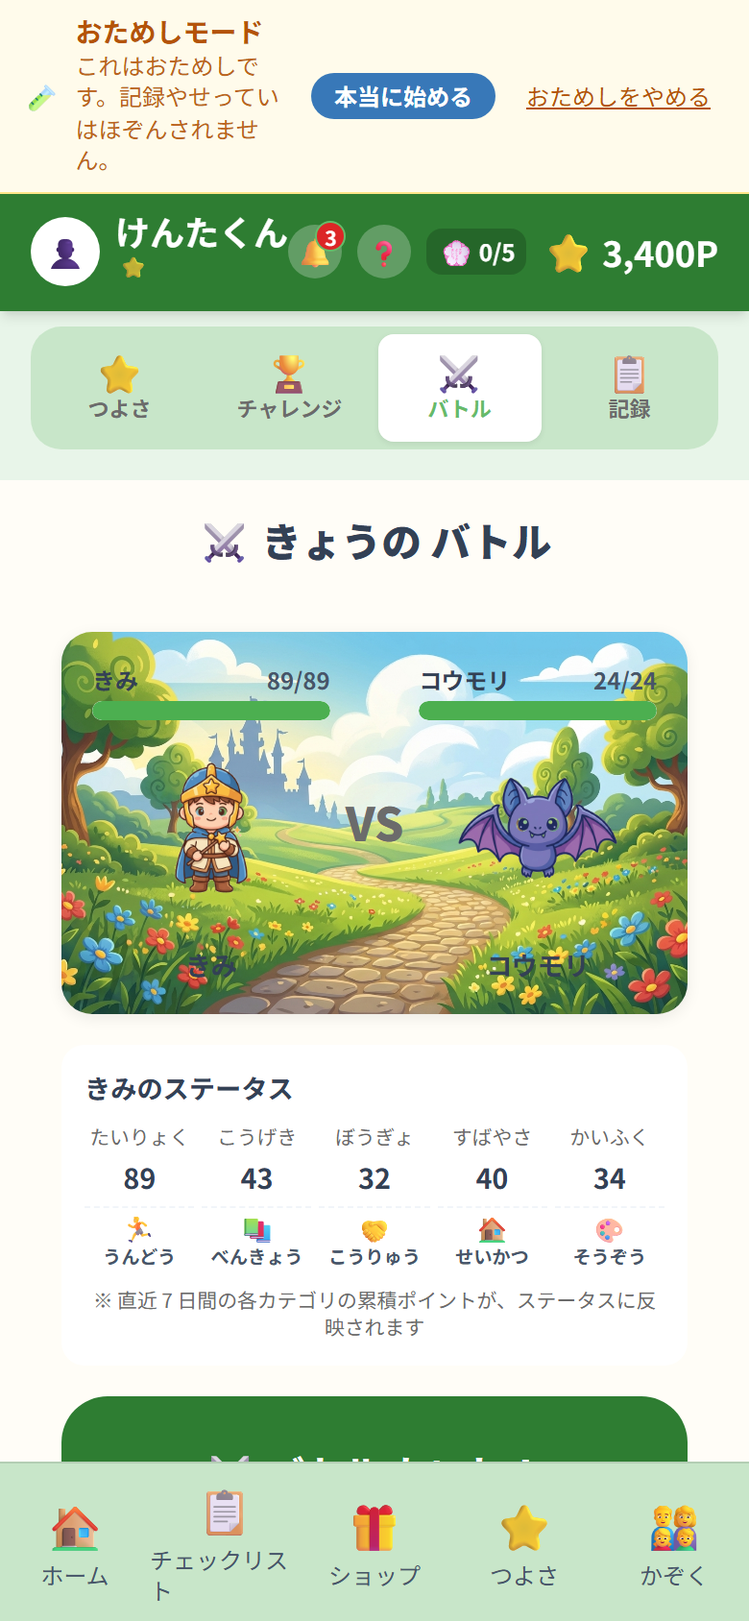
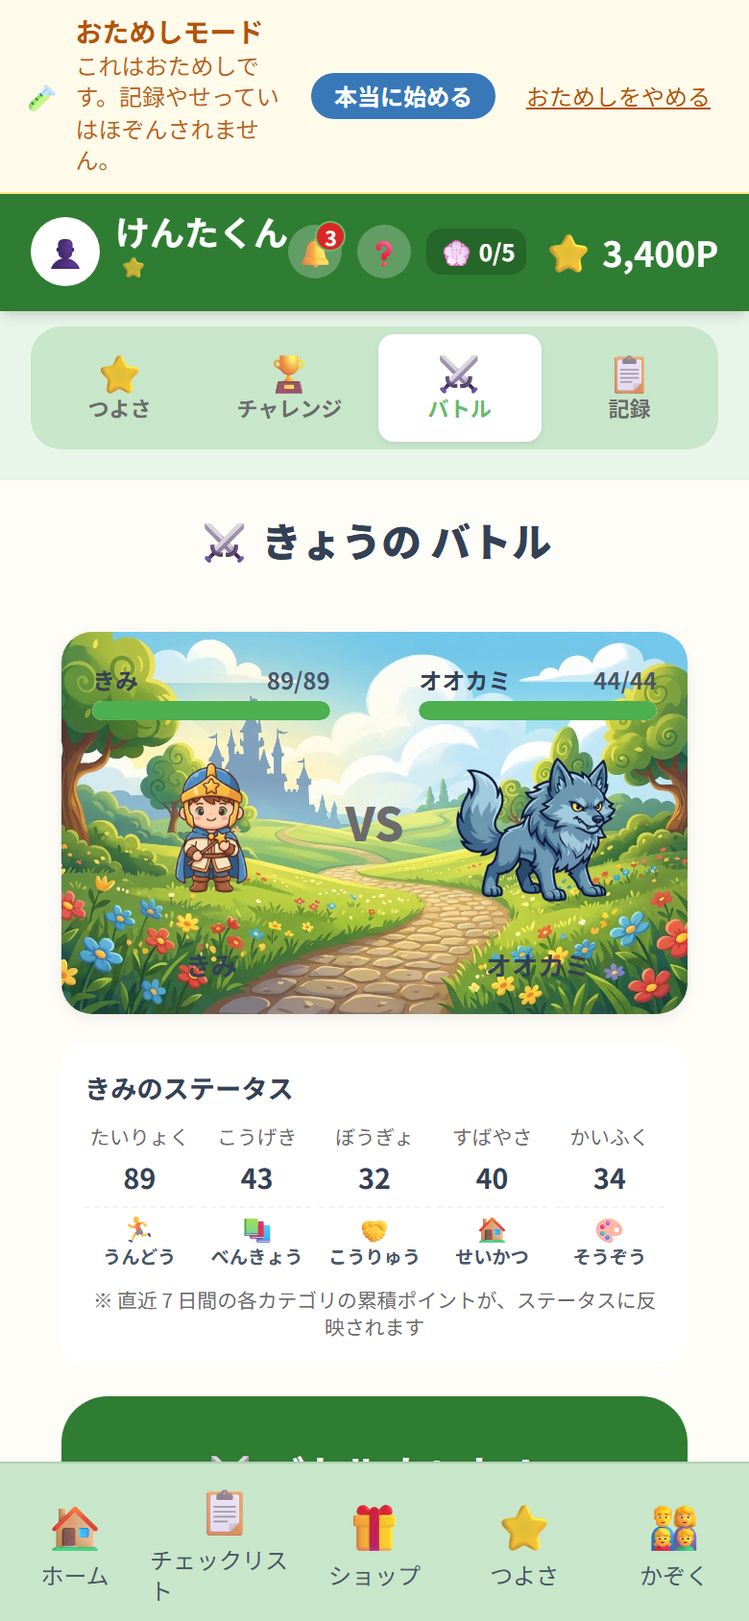
screenshots: PR #4936 (2026-09-12)

diff --git a/pr-4936/01-after-battle-elementary-mobile.dom.html b/pr-4936/01-after-battle-elementary-mobile.dom.html
@@ -550,6 +550,9 @@
   .my-\[var\(--sp-sm\)\] {
     margin-block: var(--sp-sm);
   }
+  .ms-1 {
+    margin-inline-start: var(--spacing);
+  }
   .-mt-1 {
     margin-top: calc(var(--spacing) * -1);
   }
@@ -5231,7 +5234,7 @@ h1, h2, h3, h4 {
 	}
  .svelte-1vzng6d{}</style></head>
 	<body data-sveltekit-preload-data="hover">
-		<div style="display: contents"><!--[--><!--[0--><!--[--><!--[-1--><!--]--><!----> <!--[0--><div class="sticky top-0 z-50 flex items-center gap-2 px-3 py-2 text-sm border-b bg-[var(--color-feedback-warning-bg)] border-[var(--color-feedback-warning-border)] text-[var(--color-feedback-warning-text)]" role="status" data-testid="demo-banner"><span class="shrink-0" aria-hidden="true">🧪</span> <div class="flex-1 min-w-0"><p class="font-bold leading-tight">おためしモード</p> <p class="text-xs leading-snug opacity-90">これはおためしです。記録やせっていはほぞんされません。</p></div> <a href="https://www.ganbari-quest.com/auth/signup" class="shrink-0 px-3 py-1 rounded-lg bg-[var(--color-action-primary-strong)] text-[var(--color-text-inverse)] text-xs font-bold whitespace-nowrap" data-testid="demo-banner-signup">本当に始める</a> <a href="https://www.ganbari-quest.com/" class="shrink-0 px-2 py-1 text-xs underline whitespace-nowrap" data-testid="demo-banner-exit">おためしをやめる</a></div><!--]--><!----> <!--[-1--><!--]--><!----> <!--[0--><!--[--><div data-theme="green" data-age-tier="elementary" class="min-h-dvh bg-[var(--theme-bg)]"><!--[0--><header class="sticky top-0 z-30 flex items-center justify-between px-[var(--sp-md)] py-[var(--sp-sm)] bg-[var(--color-action-primary-strong)] text-white shadow-md svelte-1i1e82e"><div class="flex items-center gap-[var(--sp-sm)] svelte-1i1e82e"><div class="avatar-wrap  svelte-1uv6grs" style="width: 36px; height: 36px;"><div class="avatar-ring svelte-1uv6grs" style="background: #ffffff; border: 2px solid rgba(255,255,255,0.5); width: 36px; height: 36px;"><!--[-1--><span class="avatar-fallback svelte-1uv6grs" style="font-size: 1rem;">👤</span><!--]--></div></div><!----> <div class="flex flex-col svelte-1i1e82e"><span class="font-bold text-lg leading-tight svelte-1i1e82e">けんたくん<!--[0--><span class="premium-star svelte-1i1e82e" title="スタンダード以上">⭐</span><!--]--></span></div></div> <div class="flex items-center gap-2 svelte-1i1e82e"><!--[0--><!--[0--><!--[0--><button type="button" class="milestone-bell svelte-1h1heob" data-testid="milestone-bell" data-pending-count="3" aria-label="新着のおしらせ 3件 を見る"><span class="milestone-bell__icon svelte-1h1heob" aria-hidden="true">🔔</span> <span class="milestone-bell__badge svelte-1h1heob" aria-hidden="true">3</span></button><!--]--><!----><!--]--><!----><!--]--> <!--[0--><button type="button" class="help-btn svelte-1i1e82e" data-testid="header-help-btn" data-tutorial="tutorial-restart" aria-label="つかいかたガイド"><span class="text-sm font-bold svelte-1i1e82e">❓</span></button><!--]--> <!--[0--><button type="button" class="stamp-mini svelte-1i1e82e" data-testid="header-stamp-btn" data-tutorial="stamp-progress" aria-label="スタンプカード 0/5 を見る"><span class="text-sm svelte-1i1e82e" aria-hidden="true">💮</span> <span class="text-xs font-bold svelte-1i1e82e">0/5</span></button><!--]--> <div class="flex items-center gap-1 font-bold svelte-1i1e82e"><span class="text-xl svelte-1i1e82e" aria-hidden="true">⭐</span> <span class="text-lg svelte-1i1e82e" data-testid="header-balance">3,400P</span></div></div></header><!----><!--]--> <main class="relative z-0 pb-20 pt-[var(--sp-sm)]"><!--[-1--><!--[0--><!--[--><nav class="character-tabs svelte-1c5gr6g" data-testid="character-tabs"><!--[--><a href="/elementary/status" data-sveltekit-noscroll="" class="character-tab svelte-1c5gr6g" data-testid="character-tab-status"><span class="character-tab__icon svelte-1c5gr6g">⭐</span> <span class="character-tab__label svelte-1c5gr6g">つよさ</span></a><a href="/elementary/challenges" data-sveltekit-noscroll="" class="character-tab svelte-1c5gr6g" data-testid="character-tab-challenges"><span class="character-tab__icon svelte-1c5gr6g">🏆</span> <span class="character-tab__label svelte-1c5gr6g">チャレンジ</span></a><a href="/elementary/battle" data-sveltekit-noscroll="" class="character-tab svelte-1c5gr6g active" aria-current="page" data-testid="character-tab-battle"><span class="character-tab__icon svelte-1c5gr6g">⚔</span> <span class="character-tab__label svelte-1c5gr6g">バトル</span></a><a href="/elementary/history" data-sveltekit-noscroll="" class="character-tab svelte-1c5gr6g" data-testid="character-tab-history"><span class="character-tab__icon svelte-1c5gr6g">📋</span> <span class="character-tab__label svelte-1c5gr6g">記録</span></a><!--]--></nav><!----> <!--[--><form method="POST" action="?/executeBattle"><div class="battle-page svelte-1vzng6d" data-testid="battle-page"><h2 class="page-title svelte-1vzng6d">⚔ きょうの バトル</h2> <!--[0--><div class="battle-scene svelte-1y13w0u" data-testid="battle-scene"><div class="battle-field svelte-1y13w0u" data-testid="battle-field"><div class="combatant player-side svelte-1y13w0u" data-testid="player-side"><div class="hp-bar svelte-1wvyiv9"><div class="hp-label svelte-1wvyiv9"><span class="hp-name svelte-1wvyiv9">きみ</span> <span class="hp-value svelte-1wvyiv9">89/89</span></div> <div class="hp-track svelte-1wvyiv9"><div class="hp-fill svelte-1wvyiv9 bar-high" style="width: 100%;"></div></div></div><!----> <div class="sprite-wrap svelte-1y13w0u"><div class="sprite svelte-1y13w0u"><img class="sprite-img svelte-1y13w0u" src="/assets/battle/characters/hero-default.png" alt="きみ"></div> <!--[-1--><!--]--></div> <div class="combatant-name svelte-1y13w0u">きみ</div></div> <div class="vs-label svelte-1y13w0u">VS</div> <div class="combatant enemy-side svelte-1y13w0u" data-testid="enemy-side"><div class="hp-bar svelte-1wvyiv9 enemy"><div class="hp-label svelte-1wvyiv9"><span class="hp-name svelte-1wvyiv9">コウモリ</span> <span class="hp-value svelte-1wvyiv9">24/24</span></div> <div class="hp-track svelte-1wvyiv9"><div class="hp-fill svelte-1wvyiv9 bar-high" style="width: 100%;"></div></div></div><!----> <div class="sprite-wrap svelte-1y13w0u"><div class="sprite svelte-1y13w0u"><img class="sprite-img svelte-1y13w0u" src="/assets/battle/enemies/common-bat.png" alt="コウモリ"></div> <!--[-1--><!--]--></div> <div class="combatant-name svelte-1y13w0u" data-testid="enemy-name">コウモリ</div></div></div> <!--[0--><div class="stats-panel svelte-1y13w0u" data-testid="stats-panel"><h3 class="stats-title svelte-1y13w0u">きみのステータス</h3> <div class="stats-grid svelte-1y13w0u" data-testid="stats-grid"><!--[--><div class="stat-item svelte-1y13w0u" data-testid="stat-item-hp"><span class="stat-label svelte-1y13w0u">たいりょく</span> <span class="stat-value svelte-1y13w0u">89</span> <span class="stat-category svelte-1y13w0u" aria-label="対応するカテゴリ"><span class="stat-category-icon svelte-1y13w0u" aria-hidden="true">🏃</span> <span class="stat-category-name svelte-1y13w0u">うんどう</span></span></div><div class="stat-item svelte-1y13w0u" data-testid="stat-item-atk"><span class="stat-label svelte-1y13w0u">こうげき</span> <span class="stat-value svelte-1y13w0u">43</span> <span class="stat-category svelte-1y13w0u" aria-label="対応するカテゴリ"><span class="stat-category-icon svelte-1y13w0u" aria-hidden="true">📚</span> <span class="stat-category-name svelte-1y13w0u">べんきょう</span></span></div><div class="stat-item svelte-1y13w0u" data-testid="stat-item-def"><span class="stat-label svelte-1y13w0u">ぼうぎょ</span> <span class="stat-value svelte-1y13w0u">32</span> <span class="stat-category svelte-1y13w0u" aria-label="対応するカテゴリ"><span class="stat-category-icon svelte-1y13w0u" aria-hidden="true">🤝</span> <span class="stat-category-name svelte-1y13w0u">こうりゅう</span></span></div><div class="stat-item svelte-1y13w0u" data-testid="stat-item-spd"><span class="stat-label svelte-1y13w0u">すばやさ</span> <span class="stat-value svelte-1y13w0u">40</span> <span class="stat-category svelte-1y13w0u" aria-label="対応するカテゴリ"><span class="stat-category-icon svelte-1y13w0u" aria-hidden="true">🏠</span> <span class="stat-category-name svelte-1y13w0u">せいかつ</span></span></div><div class="stat-item svelte-1y13w0u" data-testid="stat-item-rec"><span class="stat-label svelte-1y13w0u">かいふく</span> <span class="stat-value svelte-1y13w0u">34</span> <span class="stat-category svelte-1y13w0u" aria-label="対応するカテゴリ"><span class="stat-category-icon svelte-1y13w0u" aria-hidden="true">🎨</span> <span class="stat-category-name svelte-1y13w0u">そうぞう</span></span></div><!--]--></div> <p class="stats-note svelte-1y13w0u">※ 直近 7 日間の各カテゴリの累積ポイントが、ステータスに反映されます</p></div><!--]--> <!--[-1--><!--]--> <!--[-1--><!--]--> <!--[0--><!--[-1--><button class="tap-target inline-flex items-center justify-center gap-2 font-bold transition-all disabled:opacity-60 disabled:cursor-not-allowed bg-[var(--color-action-primary-strong)] text-white hover:brightness-90 active:brightness-80 px-8 py-5 text-xl rounded-[var(--radius-lg)] min-h-20 font-bold w-full" aria-busy="false" type="submit" data-testid="battle-start-button"><!--[-1--><!--]--><!---->⚔ バトル かいし！<!----></button><!--]--><!----><!--]--></div><!----><!--]--> <!--[-1--><!--]--></div><!----></form><!--]--><!----><!--]--><!--]--><!----><!--]--></main> <!--[0--><nav class="fixed bottom-0 left-0 right-0 z-30 flex items-stretch justify-around bg-[var(--theme-nav)] border-t border-black/10 safe-area-bottom svelte-1sje7wr" data-testid="bottom-nav" aria-label="メインナビゲーション"><!--[--><a href="/elementary/home" class="tap-target flex flex-col items-center justify-center gap-0.5 flex-1 py-[var(--sp-sm)]
+		<div style="display: contents"><!--[--><!--[0--><!--[--><!--[-1--><!--]--><!----> <!--[0--><div class="sticky top-0 z-50 flex items-center gap-2 px-3 py-2 text-sm border-b bg-[var(--color-feedback-warning-bg)] border-[var(--color-feedback-warning-border)] text-[var(--color-feedback-warning-text)]" role="status" data-testid="demo-banner"><span class="shrink-0" aria-hidden="true">🧪</span> <div class="flex-1 min-w-0"><p class="font-bold leading-tight">おためしモード</p> <p class="text-xs leading-snug opacity-90">これはおためしです。記録やせっていはほぞんされません。</p></div> <a href="https://www.ganbari-quest.com/auth/signup" class="shrink-0 px-3 py-1 rounded-lg bg-[var(--color-action-primary-strong)] text-[var(--color-text-inverse)] text-xs font-bold whitespace-nowrap" data-testid="demo-banner-signup">本当に始める</a> <a href="https://www.ganbari-quest.com/" class="shrink-0 px-2 py-1 text-xs underline whitespace-nowrap" data-testid="demo-banner-exit">おためしをやめる</a></div><!--]--><!----> <!--[-1--><!--]--><!----> <!--[0--><!--[--><div data-theme="green" data-age-tier="elementary" class="min-h-dvh bg-[var(--theme-bg)]"><!--[0--><header class="sticky top-0 z-30 flex items-center justify-between px-[var(--sp-md)] py-[var(--sp-sm)] bg-[var(--color-action-primary-strong)] text-white shadow-md svelte-1i1e82e"><div class="flex items-center gap-[var(--sp-sm)] svelte-1i1e82e"><div class="avatar-wrap  svelte-1uv6grs" style="width: 36px; height: 36px;"><div class="avatar-ring svelte-1uv6grs" style="background: #ffffff; border: 2px solid rgba(255,255,255,0.5); width: 36px; height: 36px;"><!--[-1--><span class="avatar-fallback svelte-1uv6grs" style="font-size: 1rem;">👤</span><!--]--></div></div><!----> <div class="flex flex-col svelte-1i1e82e"><span class="font-bold text-lg leading-tight svelte-1i1e82e">けんたくん<!--[0--><span class="premium-star svelte-1i1e82e" title="スタンダード以上">⭐</span><!--]--></span></div></div> <div class="flex items-center gap-2 svelte-1i1e82e"><!--[0--><!--[0--><!--[0--><button type="button" class="milestone-bell svelte-1h1heob" data-testid="milestone-bell" data-pending-count="3" aria-label="新着のおしらせ 3件 を見る"><span class="milestone-bell__icon svelte-1h1heob" aria-hidden="true">🔔</span> <span class="milestone-bell__badge svelte-1h1heob" aria-hidden="true">3</span></button><!--]--><!----><!--]--><!----><!--]--> <!--[0--><button type="button" class="help-btn svelte-1i1e82e" data-testid="header-help-btn" data-tutorial="tutorial-restart" aria-label="つかいかたガイド"><span class="text-sm font-bold svelte-1i1e82e">❓</span></button><!--]--> <!--[0--><button type="button" class="stamp-mini svelte-1i1e82e" data-testid="header-stamp-btn" data-tutorial="stamp-progress" aria-label="スタンプカード 0/5 を見る"><span class="text-sm svelte-1i1e82e" aria-hidden="true">💮</span> <span class="text-xs font-bold svelte-1i1e82e">0/5</span></button><!--]--> <div class="flex items-center gap-1 font-bold svelte-1i1e82e"><span class="text-xl svelte-1i1e82e" aria-hidden="true">⭐</span> <span class="text-lg svelte-1i1e82e" data-testid="header-balance">3,400P</span></div></div></header><!----><!--]--> <main class="relative z-0 pb-20 pt-[var(--sp-sm)]"><!--[-1--><!--[0--><!--[--><nav class="character-tabs svelte-1c5gr6g" data-testid="character-tabs"><!--[--><a href="/elementary/status" data-sveltekit-noscroll="" class="character-tab svelte-1c5gr6g" data-testid="character-tab-status"><span class="character-tab__icon svelte-1c5gr6g">⭐</span> <span class="character-tab__label svelte-1c5gr6g">つよさ</span></a><a href="/elementary/challenges" data-sveltekit-noscroll="" class="character-tab svelte-1c5gr6g" data-testid="character-tab-challenges"><span class="character-tab__icon svelte-1c5gr6g">🏆</span> <span class="character-tab__label svelte-1c5gr6g">チャレンジ</span></a><a href="/elementary/battle" data-sveltekit-noscroll="" class="character-tab svelte-1c5gr6g active" aria-current="page" data-testid="character-tab-battle"><span class="character-tab__icon svelte-1c5gr6g">⚔</span> <span class="character-tab__label svelte-1c5gr6g">バトル</span></a><a href="/elementary/history" data-sveltekit-noscroll="" class="character-tab svelte-1c5gr6g" data-testid="character-tab-history"><span class="character-tab__icon svelte-1c5gr6g">📋</span> <span class="character-tab__label svelte-1c5gr6g">記録</span></a><!--]--></nav><!----> <!--[--><form method="POST" action="?/executeBattle"><div class="battle-page svelte-1vzng6d" data-testid="battle-page"><h2 class="page-title svelte-1vzng6d">⚔ きょうの バトル</h2> <!--[0--><div class="battle-scene svelte-1y13w0u" data-testid="battle-scene"><div class="battle-field svelte-1y13w0u" data-testid="battle-field"><div class="combatant player-side svelte-1y13w0u" data-testid="player-side"><div class="hp-bar svelte-1wvyiv9"><div class="hp-label svelte-1wvyiv9"><span class="hp-name svelte-1wvyiv9">きみ</span> <span class="hp-value svelte-1wvyiv9">89/89</span></div> <div class="hp-track svelte-1wvyiv9"><div class="hp-fill svelte-1wvyiv9 bar-high" style="width: 100%;"></div></div></div><!----> <div class="sprite-wrap svelte-1y13w0u"><div class="sprite svelte-1y13w0u"><img class="sprite-img svelte-1y13w0u" src="/assets/battle/characters/hero-default.png" alt="きみ"></div> <!--[-1--><!--]--></div> <div class="combatant-name svelte-1y13w0u">きみ</div></div> <div class="vs-label svelte-1y13w0u">VS</div> <div class="combatant enemy-side svelte-1y13w0u" data-testid="enemy-side"><div class="hp-bar svelte-1wvyiv9 enemy"><div class="hp-label svelte-1wvyiv9"><span class="hp-name svelte-1wvyiv9">オオカミ</span> <span class="hp-value svelte-1wvyiv9">44/44</span></div> <div class="hp-track svelte-1wvyiv9"><div class="hp-fill svelte-1wvyiv9 bar-high" style="width: 100%;"></div></div></div><!----> <div class="sprite-wrap svelte-1y13w0u"><div class="sprite svelte-1y13w0u"><img class="sprite-img svelte-1y13w0u" src="/assets/battle/enemies/uncommon-wolf.png" alt="オオカミ"></div> <!--[-1--><!--]--></div> <div class="combatant-name svelte-1y13w0u" data-testid="enemy-name">オオカミ</div></div></div> <!--[0--><div class="stats-panel svelte-1y13w0u" data-testid="stats-panel"><h3 class="stats-title svelte-1y13w0u">きみのステータス</h3> <div class="stats-grid svelte-1y13w0u" data-testid="stats-grid"><!--[--><div class="stat-item svelte-1y13w0u" data-testid="stat-item-hp"><span class="stat-label svelte-1y13w0u">たいりょく</span> <span class="stat-value svelte-1y13w0u">89</span> <span class="stat-category svelte-1y13w0u" aria-label="対応するカテゴリ"><span class="stat-category-icon svelte-1y13w0u" aria-hidden="true">🏃</span> <span class="stat-category-name svelte-1y13w0u">うんどう</span></span></div><div class="stat-item svelte-1y13w0u" data-testid="stat-item-atk"><span class="stat-label svelte-1y13w0u">こうげき</span> <span class="stat-value svelte-1y13w0u">43</span> <span class="stat-category svelte-1y13w0u" aria-label="対応するカテゴリ"><span class="stat-category-icon svelte-1y13w0u" aria-hidden="true">📚</span> <span class="stat-category-name svelte-1y13w0u">べんきょう</span></span></div><div class="stat-item svelte-1y13w0u" data-testid="stat-item-def"><span class="stat-label svelte-1y13w0u">ぼうぎょ</span> <span class="stat-value svelte-1y13w0u">32</span> <span class="stat-category svelte-1y13w0u" aria-label="対応するカテゴリ"><span class="stat-category-icon svelte-1y13w0u" aria-hidden="true">🤝</span> <span class="stat-category-name svelte-1y13w0u">こうりゅう</span></span></div><div class="stat-item svelte-1y13w0u" data-testid="stat-item-spd"><span class="stat-label svelte-1y13w0u">すばやさ</span> <span class="stat-value svelte-1y13w0u">40</span> <span class="stat-category svelte-1y13w0u" aria-label="対応するカテゴリ"><span class="stat-category-icon svelte-1y13w0u" aria-hidden="true">🏠</span> <span class="stat-category-name svelte-1y13w0u">せいかつ</span></span></div><div class="stat-item svelte-1y13w0u" data-testid="stat-item-rec"><span class="stat-label svelte-1y13w0u">かいふく</span> <span class="stat-value svelte-1y13w0u">34</span> <span class="stat-category svelte-1y13w0u" aria-label="対応するカテゴリ"><span class="stat-category-icon svelte-1y13w0u" aria-hidden="true">🎨</span> <span class="stat-category-name svelte-1y13w0u">そうぞう</span></span></div><!--]--></div> <p class="stats-note svelte-1y13w0u">※ 直近 7 日間の各カテゴリの累積ポイントが、ステータスに反映されます</p></div><!--]--> <!--[-1--><!--]--> <!--[-1--><!--]--> <!--[0--><!--[-1--><button class="tap-target inline-flex items-center justify-center gap-2 font-bold transition-all disabled:opacity-60 disabled:cursor-not-allowed bg-[var(--color-action-primary-strong)] text-white hover:brightness-90 active:brightness-80 px-8 py-5 text-xl rounded-[var(--radius-lg)] min-h-20 font-bold w-full" aria-busy="false" type="submit" data-testid="battle-start-button"><!--[-1--><!--]--><!---->⚔ バトル かいし！<!----></button><!--]--><!----><!--]--></div><!----><!--]--> <!--[-1--><!--]--></div><!----></form><!--]--><!----><!--]--><!--]--><!----><!--]--></main> <!--[0--><nav class="fixed bottom-0 left-0 right-0 z-30 flex items-stretch justify-around bg-[var(--theme-nav)] border-t border-black/10 safe-area-bottom svelte-1sje7wr" data-testid="bottom-nav" aria-label="メインナビゲーション"><!--[--><a href="/elementary/home" class="tap-target flex flex-col items-center justify-center gap-0.5 flex-1 py-[var(--sp-sm)]
 				transition-colors min-h-16
 				text-[var(--color-text-on-theme-nav)] svelte-1sje7wr" data-testid="nav-home"><span class="text-2xl svelte-1sje7wr" aria-hidden="true">🏠</span> <!--[0--><span class="text-xs svelte-1sje7wr">ホーム</span><!--]--></a><a href="/checklist" class="tap-target flex flex-col items-center justify-center gap-0.5 flex-1 py-[var(--sp-sm)]
 				transition-colors min-h-16
@@ -5258,7 +5261,7 @@ h1, h2, h3, h4 {
 					]).then(([kit, app]) => {
 						kit.start(app, element, {
 							node_ids: [0, 2, 3, 12],
-							data: [{type:"data",data:{role:"owner",requestId:"d52d4261-7cdc-4f04-8d81-778181130c1e",isDemo:true},uses:{}},(function(a){a.id="903";a.nickname="けんたくん";a.age=8;a.birthDate="2018-03-22";a.theme="green";a.uiMode="elementary";a.uiModeManuallySet=0;a.avatarUrl=null;a.displayConfig=null;a.userId=null;a.birthdayBonusMultiplier=1;a.lastBirthdayBonusYear=null;a.isArchived=0;a.archivedReason=null;a.createdAt="2025-04-01T00:00:00.000Z";a.updatedAt="2026-03-27T09:00:00.000Z";return {type:"data",data:{child:a,balance:3400,level:8,levelTitle:"きせきのマスター",allChildren:[{id:"901",nickname:"たろうくん",age:1,birthDate:"2025-01-15",theme:"blue",uiMode:"baby",uiModeManuallySet:0,avatarUrl:null,displayConfig:null,userId:null,birthdayBonusMultiplier:1,lastBirthdayBonusYear:null,isArchived:0,archivedReason:null,createdAt:"2026-01-01T00:00:00.000Z",updatedAt:"2026-03-27T09:00:00.000Z"},{id:"902",nickname:"ひなちゃん",age:5,birthDate:"2020-06-10",theme:"pink",uiMode:"preschool",uiModeManuallySet:0,avatarUrl:null,displayConfig:null,userId:null,birthdayBonusMultiplier:1,lastBirthdayBonusYear:null,isArchived:0,archivedReason:null,createdAt:"2025-09-01T00:00:00.000Z",updatedAt:"2026-03-27T09:00:00.000Z"},a,{id:"904",nickname:"さくらちゃん",age:14,birthDate:"2011-08-05",theme:"purple",uiMode:"junior",uiModeManuallySet:0,avatarUrl:null,displayConfig:null,userId:null,birthdayBonusMultiplier:1,lastBirthdayBonusYear:null,isArchived:0,archivedReason:null,createdAt:"2025-04-01T00:00:00.000Z",updatedAt:"2026-03-27T09:00:00.000Z"},{id:"906",nickname:"けいすけくん",age:17,birthDate:"2008-11-20",theme:"orange",uiMode:"senior",uiModeManuallySet:0,avatarUrl:null,displayConfig:null,userId:null,birthdayBonusMultiplier:1,lastBirthdayBonusYear:null,isArchived:0,archivedReason:null,createdAt:"2025-04-01T00:00:00.000Z",updatedAt:"2026-03-27T09:00:00.000Z"}],uiMode:"elementary",pointSettings:{mode:"point",currency:"JPY",rate:1},stampProgress:{filled:0,total:5},stampCard:{id:"0",childId:"903",weekStart:"2026-09-07",weekEnd:"2026-09-13",status:"collecting",entries:[],canStampToday:true,totalSlots:5,filledSlots:0,redeemedPoints:null},isPremium:true,planTier:"family",planLimits:{maxChildren:null,maxActivities:null,maxChecklistTemplates:null,maxFamilyMembers:null,historyRetentionDays:null,canExport:true,canFreeTextMessage:true,canCustomReward:true,canSiblingRanking:true,maxCloudExports:10},milestones:[{id:"first_record",threshold:1,achieved:true,achievedAt:"2026-03-14"},{id:"streak_7",threshold:7,achieved:true,achievedAt:null},{id:"streak_14",threshold:14,achieved:true,achievedAt:null},{id:"streak_30",threshold:30,achieved:false,achievedAt:null}],pinGateOnboardingSeen:true},uses:{url:1}}}({})),{type:"data",data:null,uses:{parent:1}},{type:"data",data:{battle:{battleId:"0",enemy:{id:2,name:"コウモリ",icon:"🦇",image:"/assets/battle/enemies/common-bat.png",rarity:"common",stats:{hp:30,atk:10,def:4,spd:12,rec:1},dropPoints:10,consolationPoints:3,availableDays:[]},playerStats:{hp:89,atk:43,def:32,spd:40,rec:34},scaledEnemyMaxHp:24,completed:false,result:null}},uses:{params:["uiMode"],parent:1}}],
+							data: [{type:"data",data:{role:"owner",requestId:"8e976aa8-f5ce-4192-9695-a81298d61082",isDemo:true},uses:{}},(function(a){a.id="903";a.nickname="けんたくん";a.age=8;a.birthDate="2018-03-22";a.theme="green";a.uiMode="elementary";a.uiModeManuallySet=0;a.avatarUrl=null;a.displayConfig=null;a.userId=null;a.birthdayBonusMultiplier=1;a.lastBirthdayBonusYear=null;a.isArchived=0;a.archivedReason=null;a.createdAt="2025-04-01T00:00:00.000Z";a.updatedAt="2026-03-27T09:00:00.000Z";return {type:"data",data:{child:a,balance:3400,level:8,levelTitle:"きせきのマスター",allChildren:[{id:"901",nickname:"たろうくん",age:1,birthDate:"2025-01-15",theme:"blue",uiMode:"baby",uiModeManuallySet:0,avatarUrl:null,displayConfig:null,userId:null,birthdayBonusMultiplier:1,lastBirthdayBonusYear:null,isArchived:0,archivedReason:null,createdAt:"2026-01-01T00:00:00.000Z",updatedAt:"2026-03-27T09:00:00.000Z"},{id:"902",nickname:"ひなちゃん",age:5,birthDate:"2020-06-10",theme:"pink",uiMode:"preschool",uiModeManuallySet:0,avatarUrl:null,displayConfig:null,userId:null,birthdayBonusMultiplier:1,lastBirthdayBonusYear:null,isArchived:0,archivedReason:null,createdAt:"2025-09-01T00:00:00.000Z",updatedAt:"2026-03-27T09:00:00.000Z"},a,{id:"904",nickname:"さくらちゃん",age:14,birthDate:"2011-08-05",theme:"purple",uiMode:"junior",uiModeManuallySet:0,avatarUrl:null,displayConfig:null,userId:null,birthdayBonusMultiplier:1,lastBirthdayBonusYear:null,isArchived:0,archivedReason:null,createdAt:"2025-04-01T00:00:00.000Z",updatedAt:"2026-03-27T09:00:00.000Z"},{id:"906",nickname:"けいすけくん",age:17,birthDate:"2008-11-20",theme:"orange",uiMode:"senior",uiModeManuallySet:0,avatarUrl:null,displayConfig:null,userId:null,birthdayBonusMultiplier:1,lastBirthdayBonusYear:null,isArchived:0,archivedReason:null,createdAt:"2025-04-01T00:00:00.000Z",updatedAt:"2026-03-27T09:00:00.000Z"}],uiMode:"elementary",pointSettings:{mode:"point",currency:"JPY",rate:1},stampProgress:{filled:0,total:5},stampCard:{id:"0",childId:"903",weekStart:"2026-09-07",weekEnd:"2026-09-13",status:"collecting",entries:[],canStampToday:true,totalSlots:5,filledSlots:0,redeemedPoints:null},isPremium:true,planTier:"family",planLimits:{maxChildren:null,maxActivities:null,maxChecklistTemplates:null,maxFamilyMembers:null,historyRetentionDays:null,canExport:true,canFreeTextMessage:true,canCustomReward:true,canSiblingRanking:true,maxCloudExports:10},milestones:[{id:"first_record",threshold:1,achieved:true,achievedAt:"2026-03-14"},{id:"streak_7",threshold:7,achieved:true,achievedAt:null},{id:"streak_14",threshold:14,achieved:true,achievedAt:null},{id:"streak_30",threshold:30,achieved:false,achievedAt:null}],pinGateOnboardingSeen:true},uses:{url:1}}}({})),{type:"data",data:null,uses:{parent:1}},{type:"data",data:{battle:{battleId:"0",enemy:{id:6,name:"オオカミ",icon:"🐺",image:"/assets/battle/enemies/uncommon-wolf.png",rarity:"uncommon",stats:{hp:55,atk:16,def:6,spd:10,rec:2},dropPoints:20,consolationPoints:5,availableDays:[2,4,6]},playerStats:{hp:89,atk:43,def:32,spd:40,rec:34},scaledEnemyMaxHp:44,completed:false,result:null}},uses:{params:["uiMode"],parent:1}}],
 							form: null,
 							error: null
 						});
